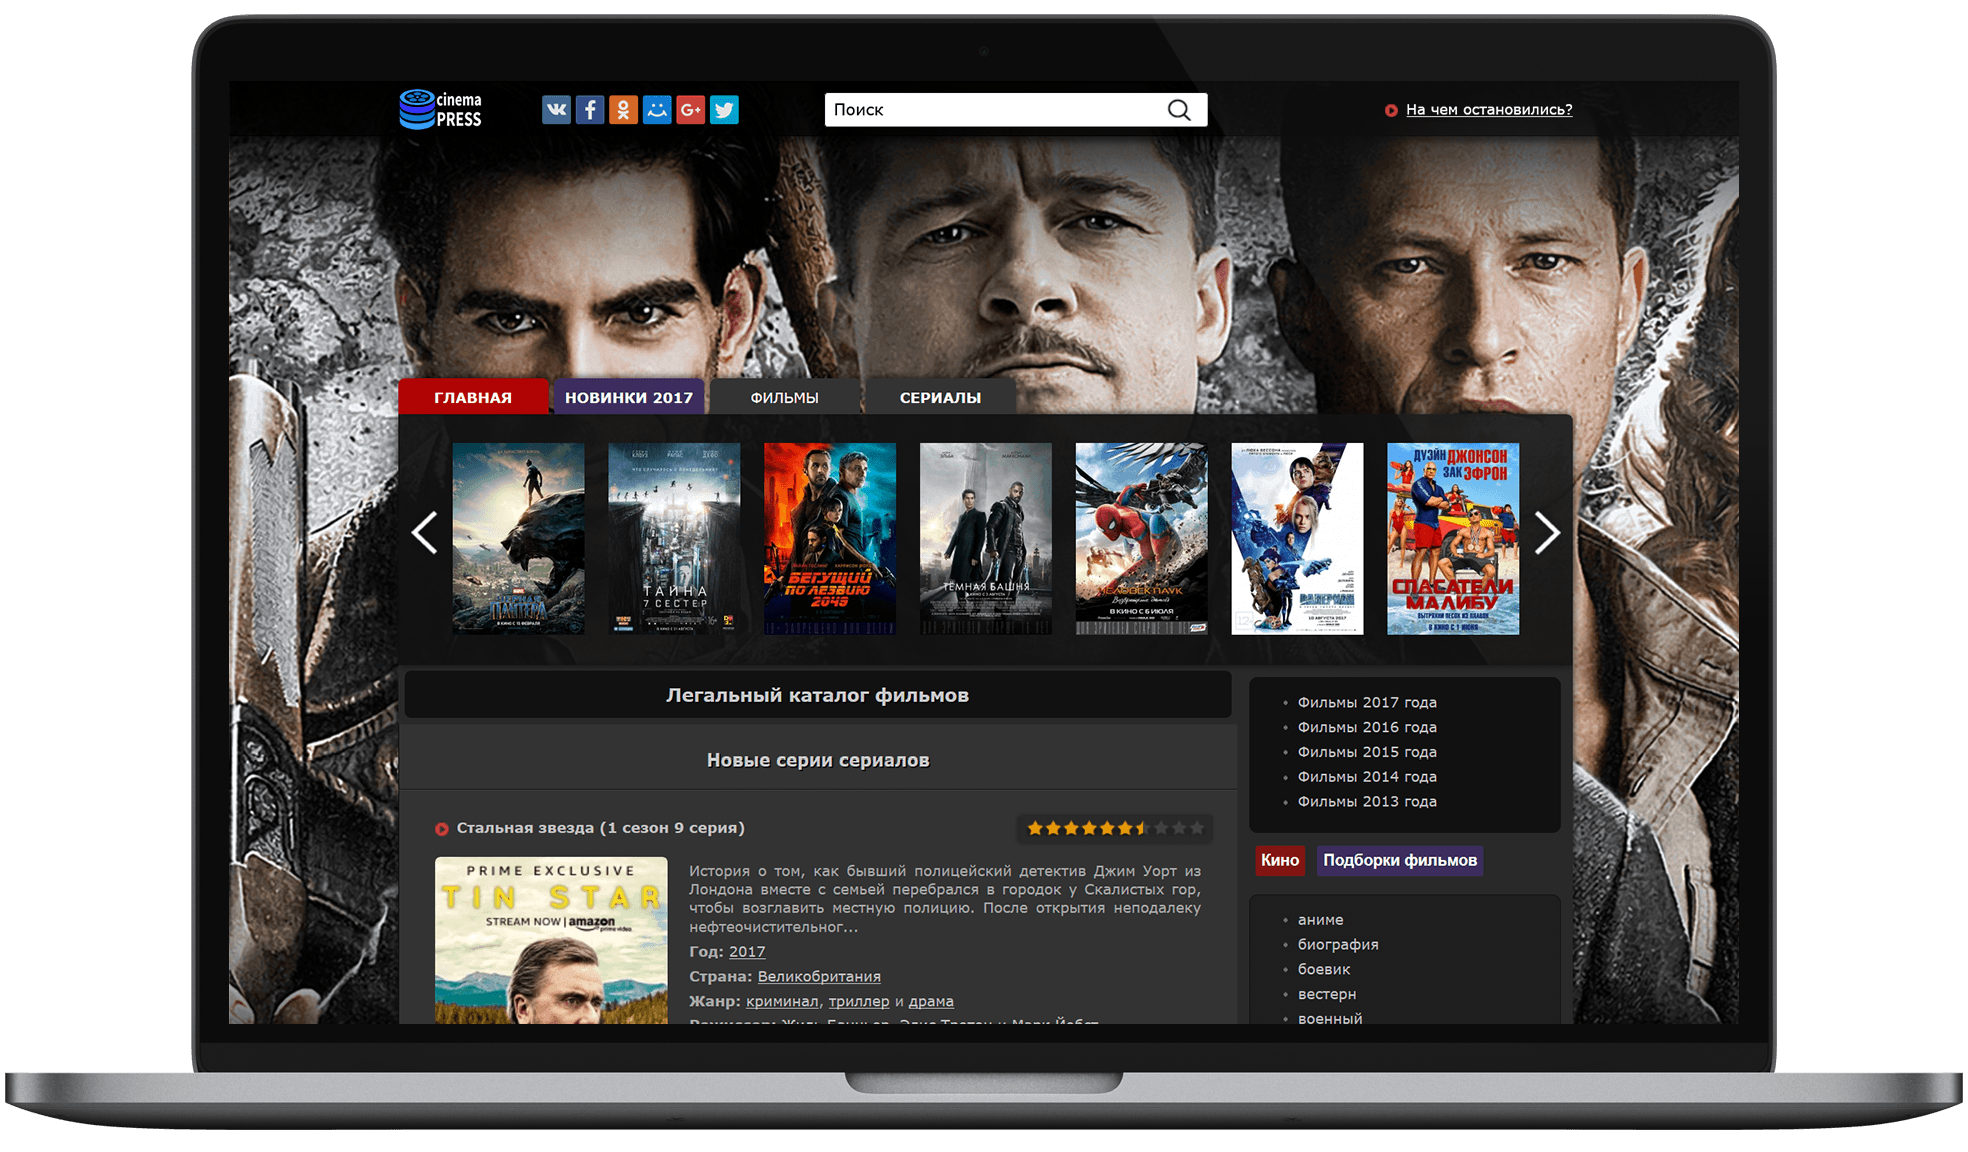
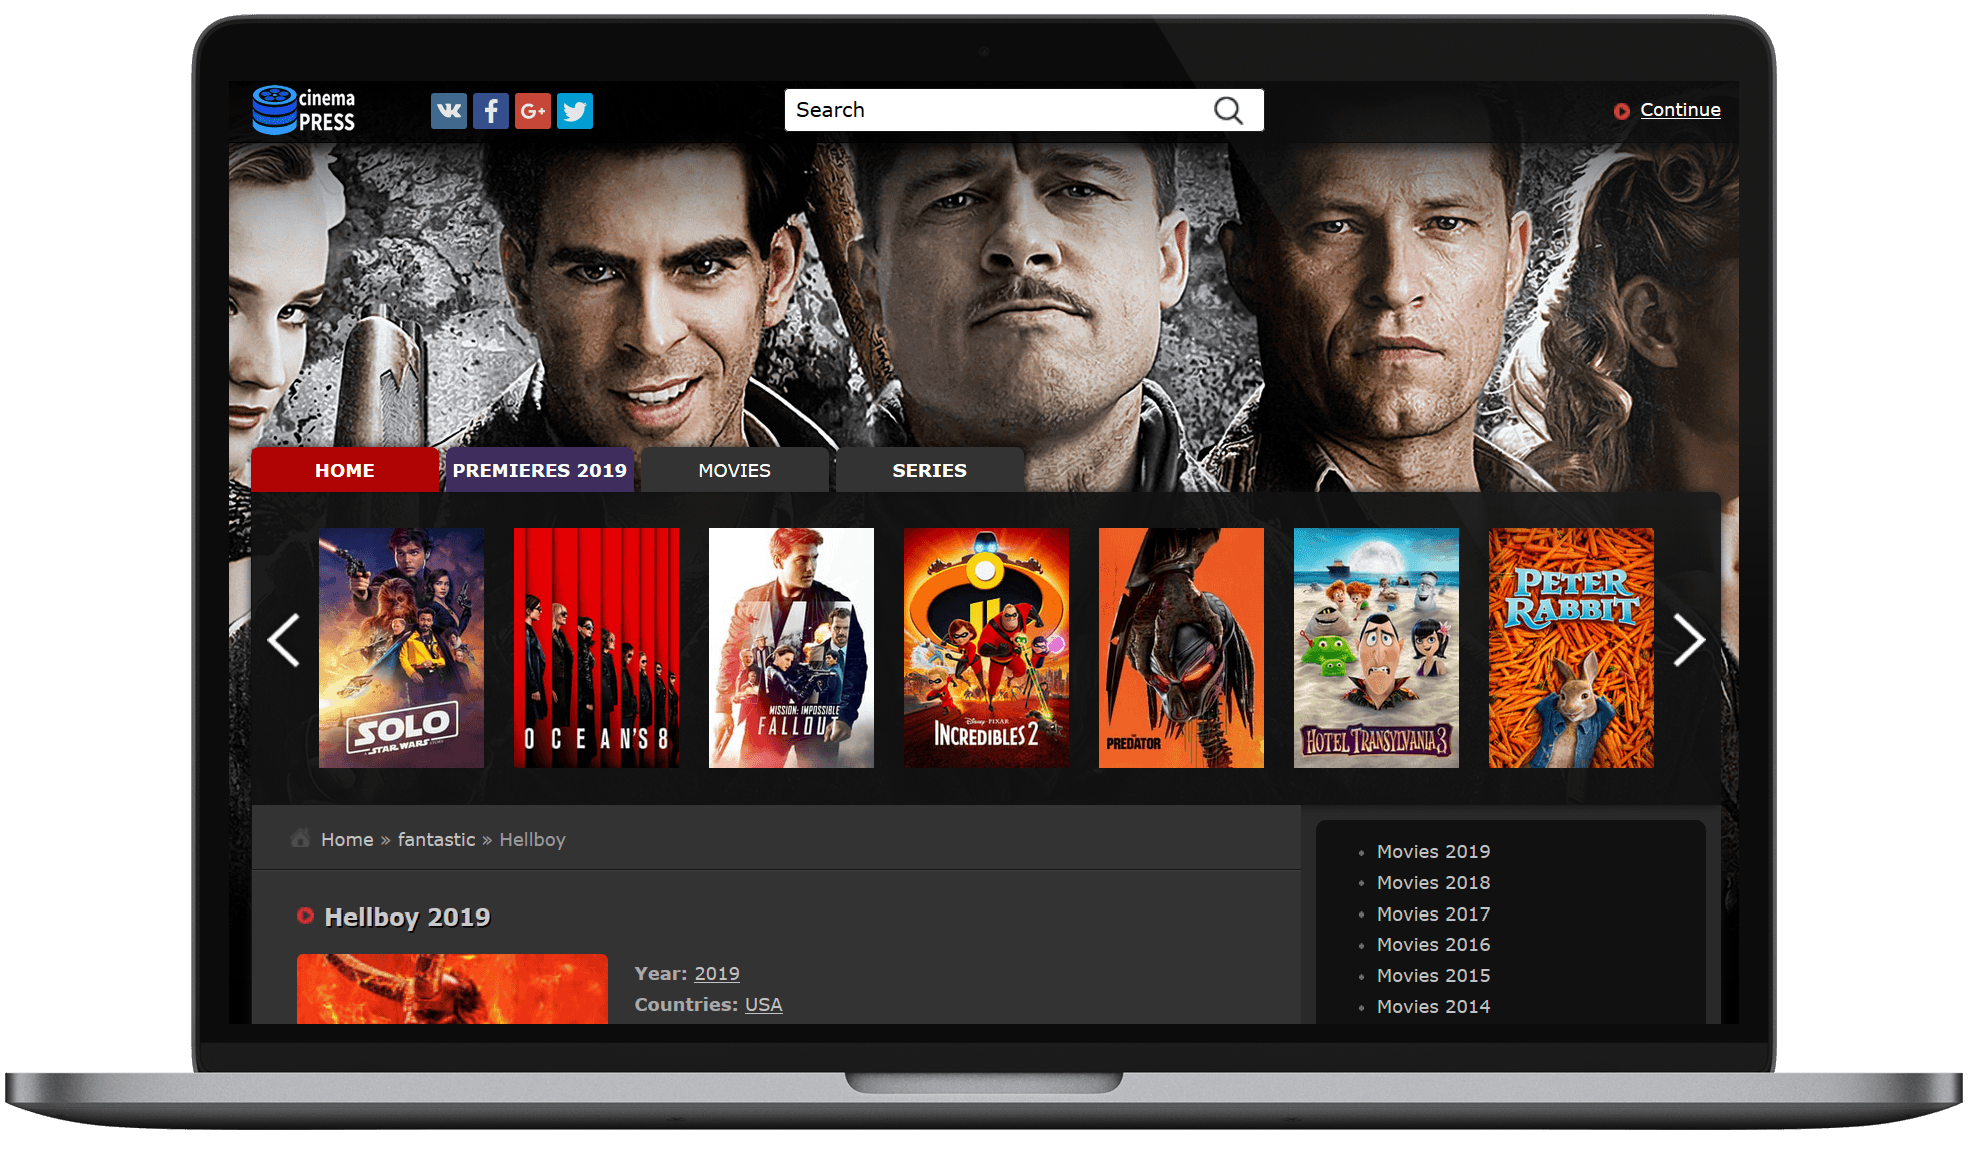
Add translate, new scr

diff --git a/README.md b/README.md
@@ -1,18 +1,29 @@
-# Шаблон «ramsay»
+# Theme «ramsay»
 
-![Шаблон «ramsay» для CinemaPress ACMS](https://raw.githubusercontent.com/CinemaPress/Theme-Ramsay/master/screenshot.png "Шаблон «ramsay» для CinemaPress ACMS")
+![Theme «ramsay» for CinemaPress ACMS](https://raw.githubusercontent.com/CinemaPress/Theme-Ramsay/master/screenshot.png "Theme «ramsay» for CinemaPress ACMS")
 
-:art: Шаблон «ramsay» для CinemaPress ACMS
+:art: Theme «ramsay» for CinemaPress ACMS
 
 - [Ramsay.CinemaPress.org](http://Ramsay.CinemaPress.org/)
 
-## Установка
+## How to install?
+1. Download [GitHub](https://github.com/CinemaPress/Theme-Ramsay/archive/master.zip) or [GitLab](https://gitlab.com/CinemaPress/Theme-Ramsay/repository/archive.zip) or [BitBucket](https://bitbucket.org/cinemapress/theme-ramsay/get/master.zip) or [Coding](https://coding.net/u/CinemaPress/p/Theme-Ramsay/git/archive/master.zip)
+2. Unpack the archive and rename the folder to **ramsay**
+3. Folder **ramsay** send to server in folder **themes**
+4. Change the name of the theme in the admin panel to **ramsay**
+
+## Installation via terminal
+```
+~# wget cinemapress.org/i -qO i && chmod +x i && ./i 3
+```
+
+## Как установить?
 1. Скачать архив с [GitHub](https://github.com/CinemaPress/Theme-Ramsay/archive/master.zip) или [GitLab](https://gitlab.com/CinemaPress/Theme-Ramsay/repository/archive.zip) или [BitBucket](https://bitbucket.org/cinemapress/theme-ramsay/get/master.zip) или [Coding](https://coding.net/u/CinemaPress/p/Theme-Ramsay/git/archive/master.zip)
 2. Распаковать архив и переименовать папку в **ramsay**
 3. Папку **ramsay** отправить на сервер в папку **themes**
 4. Изменить название темы в админ-панели на **ramsay**
 
-## Установка через установщик тем CinemaPress ACMS
+## Установка через терминал
 ```
 ~# wget cinemapress.org/i -qO i && chmod +x i && ./i 3
 ```
